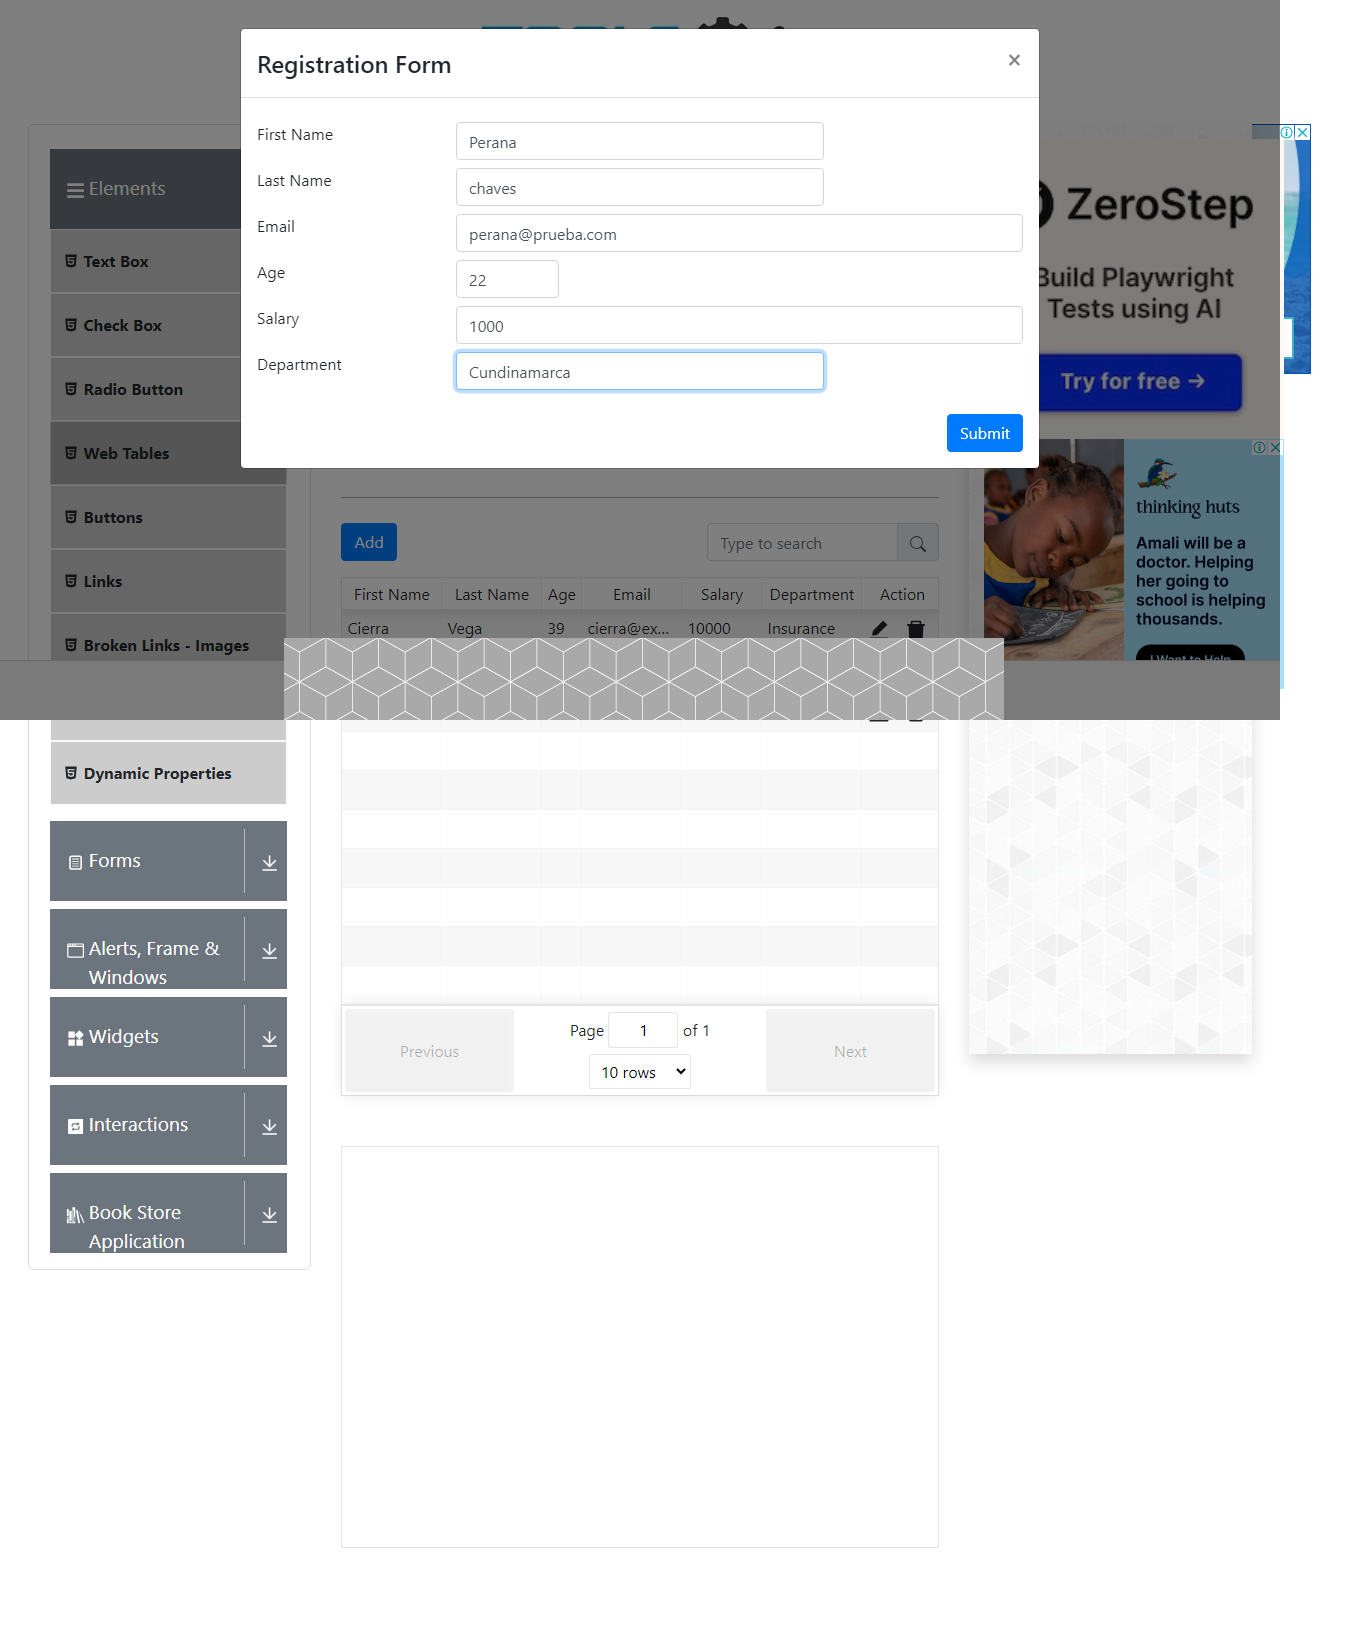
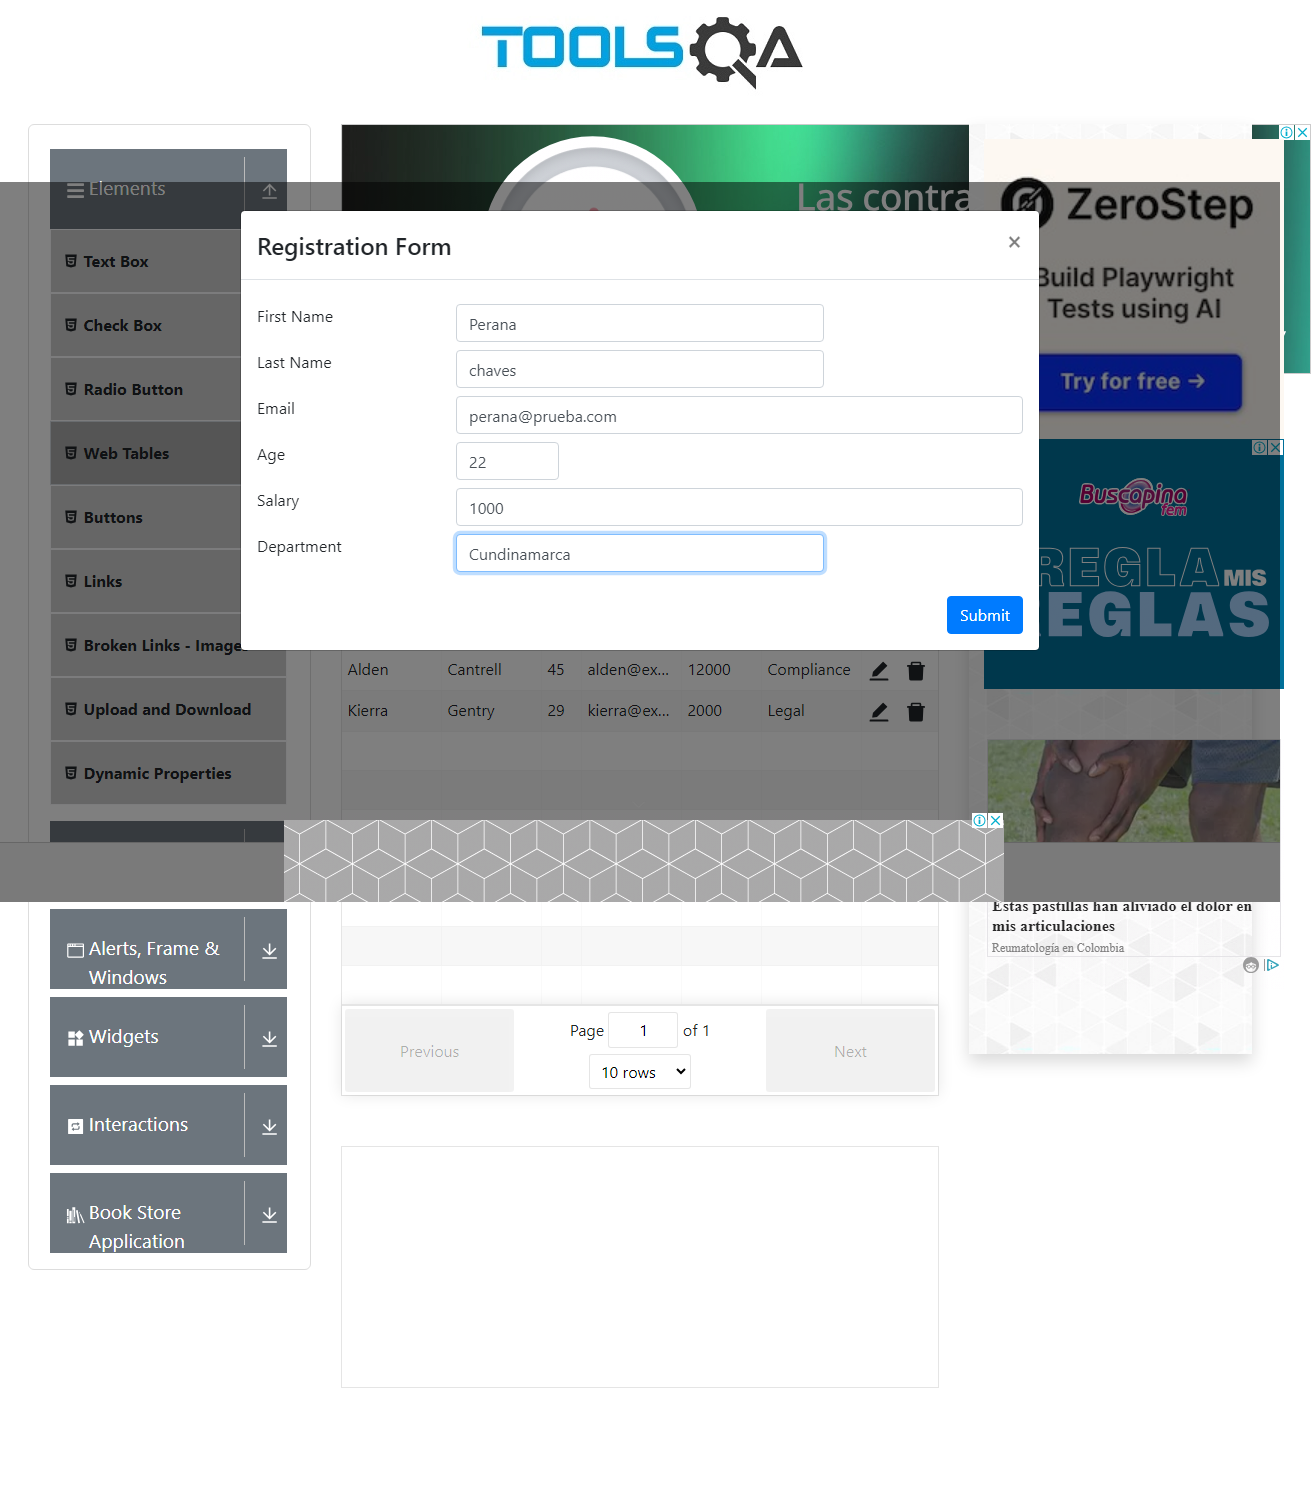
correccion de pruebas

diff --git a/playwright-report/index.html b/playwright-report/index.html
@@ -65,4 +65,4 @@ In order to be iterable, non-array objects must have a [Symbol.iterator]() metho
   </body>
 </html>
 <script>
[2 lines of base64/hex data omitted]

diff --git a/prueba1/example.spec.ts b/prueba1/example.spec.ts
@@ -42,7 +42,7 @@ test('Probar componente text box y formulario', async ({ page }) => {
   await page.locator('//textarea[@id="permanentAddress"]').fill("Prueba Permanent A.");
   await page.getByRole('button', { name: 'Submit' }).click();
   
-  await expect(page.getByText("Email:pepito@prueba.com")).toBeVisible({ timeout: 8_000 });
+  await expect(page.getByText("Email:perana@prueba.com")).toBeVisible({ timeout: 8_000 });
   // await expect(page.locator('//p[@id="email"]')).toBeVisible();  // no es tan bueno
 });
 
@@ -92,7 +92,7 @@ test('Probar componente Web table eliminar registro', async ({ page }) => {
   await page.screenshot({path: 'Evidencias/evidencia Tabla 2.png', fullPage:true});
   //await page.locator('#delete-record-4 path').click(); // Malo
   
-  await page.locator('(//div[contains(text(),"pepito@prueba.com")]//following::span)[2]').click();
+  await page.locator('(//div[contains(text(),"perana@prueba.com")]//following::span)[2]').click();
   await page.screenshot({path: 'Evidencias/evidencia Tabla 3.png', fullPage:true});
 });
 
